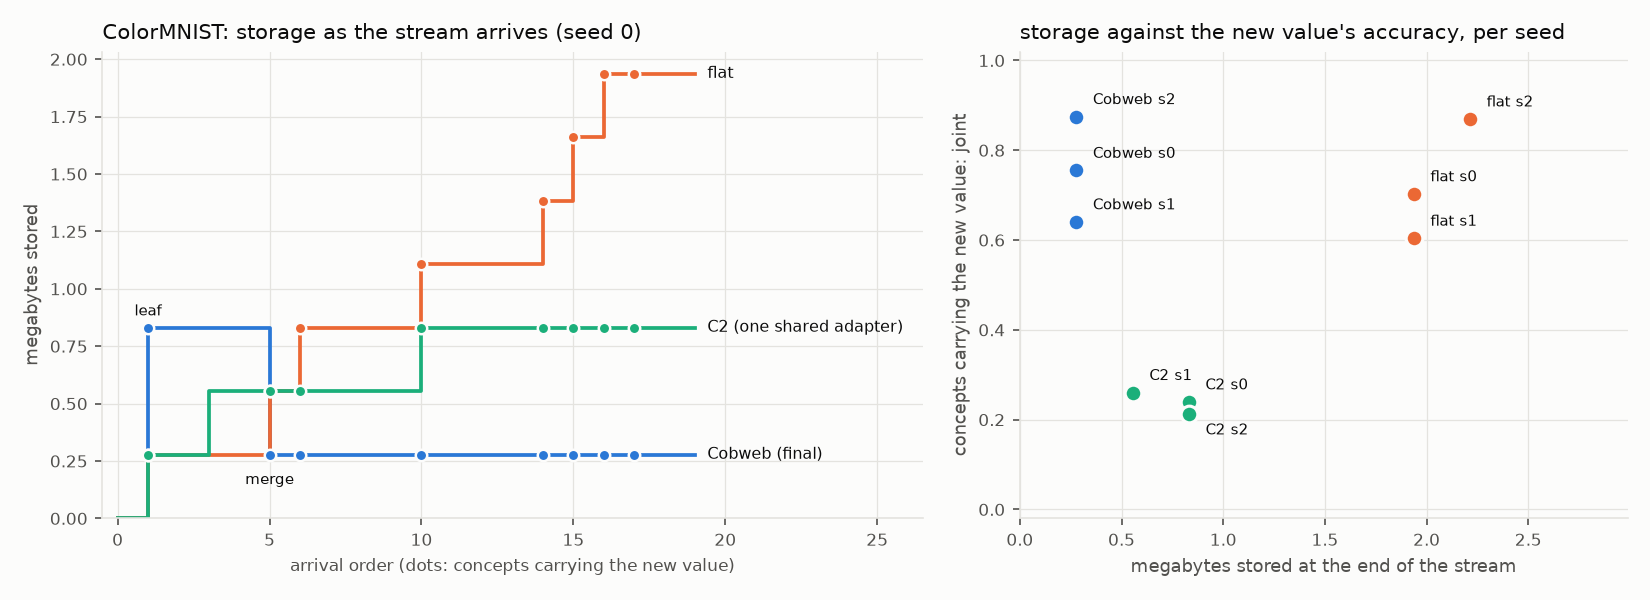
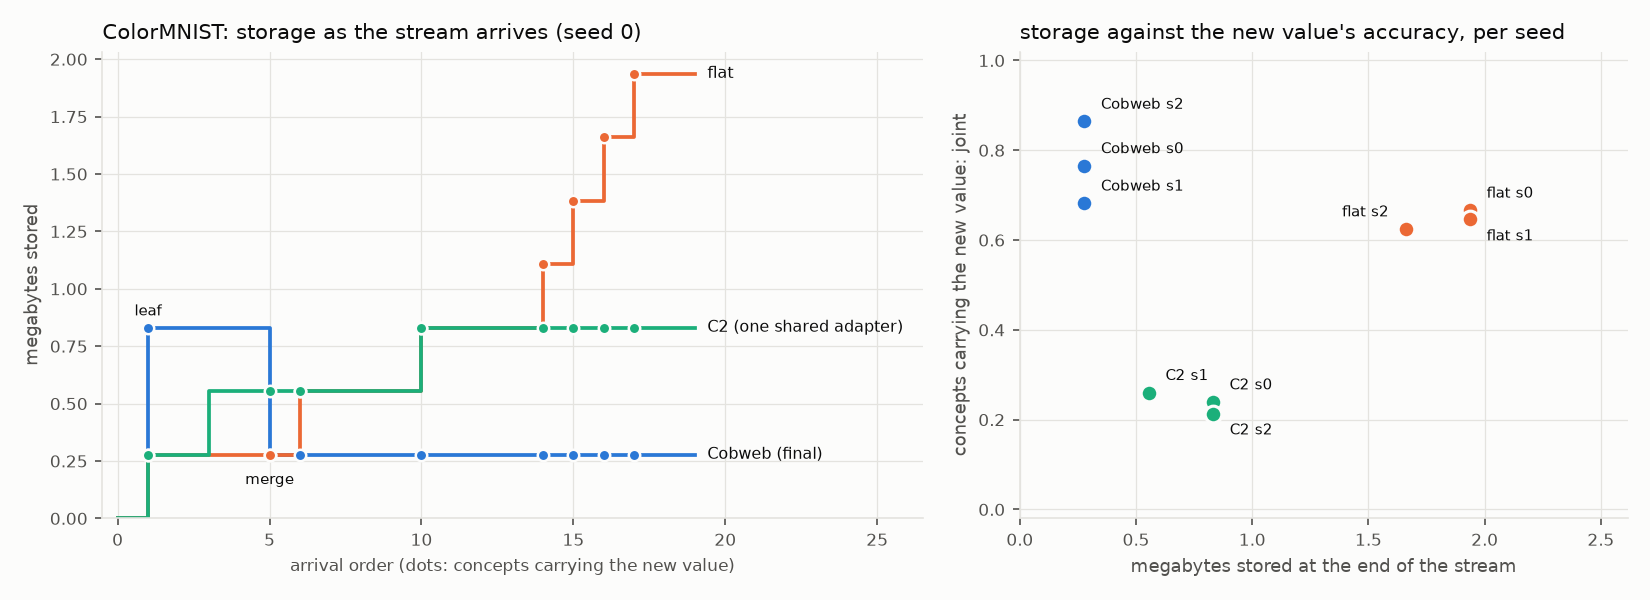
Review: read-band router is final (every new-value concept under its true tuple, never-taught 0.795 vs flat 0.550 at 6.6x less storage)

diff --git a/docs/REVIEW_2026-09.md b/docs/REVIEW_2026-09.md
@@ -265,7 +265,11 @@ same stream and calibration as C2, with these changes:
   per factor, whose other factors are read with that factor left out;
 * a later concept that a hypothesis explains better than any basis composition **MERGES** the leaf
   into a value node on that factor;
-* concepts read through a node are **incorporated**, updating the node at 0 B.
+* concepts read through a node are **incorporated**, updating the node at 0 B;
+* every read is taken in the **read band**: the noise levels where the backbone reads its own
+  trained classes exactly, each level divided by the trained-class level. The band is calibrated
+  label-free, and it came out as u = 0.8–0.95 in every run. See "Where the misreads came from" in
+  Part 4.
 
 **The result on ColorMNIST.** Three seeds per row, joint re-sampled at the end of the stream
 (`experiments/c_report.py c5`):
@@ -276,8 +280,10 @@ same stream and calibration as C2, with these changes:
 | C5: informativeness rule, refine at merge | 0.92 | 0.75 | 0.580 ± 0.055 | 0.50 | – | 1.02 MB | 4 / 5, plus 2 merges of junk leaves |
 | C5: compose-vs-retrieve rule | 0.92 | **1.00** | 0.458 ± 0.057 | 0.46 | – | 0.37 MB | 3 / 3 |
 | C5: compose-vs-retrieve, IN-DIST at the worst trained class | **1.00** | **1.00** | 0.460 ± 0.059 | 0.46 | 0.399 ± 0.065 | **0.278 MB** | 3 / 3 |
-| **C5 final: the above + incorporate** | **1.00** | **1.00** | **0.757 ± 0.068** | 0.63 | **0.611 ± 0.099** | **0.278 MB** | **3 / 3** |
+| C5: the above + incorporate | 1.00 | 1.00 | 0.757 ± 0.068 | 0.63 | 0.611 ± 0.099 | 0.278 MB | 3 / 3 |
 | flat: one adapter per escalated concept, same rules | 1.00 | 1.00 | 0.726 ± 0.078 | 0.17 | 0.483 ± 0.153 | 2.03 MB | – |
+| **C5 final: the above + reads in the read band** | **1.00** | **1.00** | **0.771 ± 0.053** | **1.00** | **0.795 ± 0.059** | **0.278 MB** | **3 / 3** |
+| flat, with the read band | 1.00 | 1.00 | 0.646 ± 0.012 | 0.83 | 0.550 ± 0.052 | 1.84 MB | – |
 
 Old classes are exact in every C5 row (0.834 → 0.834), because a node's adapter is off unless its
 value is in the coordinates.
@@ -286,28 +292,27 @@ value is in the coordinates.
 
 **What this establishes for mechanism B.**
 
-1. **Every tier decision is right, label-free, in 3/3 seeds.**
+1. **Every decision is right, label-free, in 3/3 seeds.**
    * Trained classes store nothing.
    * All 24 new combinations are addressed under their exact tuple.
    * The first new-value concept becomes one leaf, which the next new-value concept merges on the
      right factor.
-   * Every later new-value concept is stored at 72 B.
+   * Every new-value concept, all 24, is stored under its exact true tuple.
 
-   Storage for the eight new-value concepts is one adapter: 277.6 KB, 7.3× less than the flat store.
-2. **The hierarchy beats flat on accuracy, too, once nodes incorporate their members.** New-value
-   concepts reach 0.757 against 0.726. Never-taught combinations of the new value reach 0.611 against
-   0.483, rendered from 72 B of coordinates through the node. C1's per-value adapter, trained with
-   the TRUE labels, reaches 0.715 on never-taught combinations. The label-free loop recovers most of
-   that.
+   Storage for the eight new-value concepts is one adapter: 277.6 KB, 6.6× less than the flat store.
+2. **The hierarchy beats the flat store on accuracy as well as storage.**
+   * New-value concepts reach 0.771 against 0.646.
+   * Never-taught combinations of the new value reach 0.795 against 0.550, rendered from 72 B of
+     coordinates through the node. That is above C1's per-value adapter trained with the TRUE labels
+     (0.715), because the node is incorporated from more concepts.
 3. **Each fix moves exactly the number it targets.**
    * Compose-vs-retrieve removes the over-spend on new combinations: 0.75 → 1.00 addressed, and
      1.02 → 0.37 MB.
    * The worst-class IN-DIST threshold stops trained classes from becoming leaves: 0.92 → 1.00.
    * Incorporate lifts both accuracies: 0.46 → 0.76 on new-value concepts and 0.40 → 0.61 on
-     never-taught ones. It did not pollute the node.
-4. **What remains is reading.** Only 0.63 of new-value concepts are stored under their true tuple.
-   The joint is higher than that because the node learns to render each concept from its (partly
-   misread) coordinates. See Part 4.
+     never-taught ones.
+   * The read band fixes the coordinates: 0.63 → 1.00 stored under the true tuple, and never-taught
+     combinations 0.61 → 0.80.
 
 ### 3d. The Shapes3D flagship, remeasured (C3)
 
@@ -357,8 +362,8 @@ query images, adds a baseline that can win, and draws 3 sampling seeds of 24 sam
 | Compositionality serves lifelong learning: new combinations of known parts need no new parameters | **holds** | ColorMNIST new combinations: 72 B each, routed label-free, all 24 under their exact tuple, joint 0.688 ± 0.018 (trained classes 0.851). Shapes3D: 0.980 from a 1-image read (C3); ADDRESS 1.000 in C2 |
 | A Cobweb-like weight update, with a proof | **holds for the ideal denoiser; the network needs the r ≈ 0 half made explicit** | Propositions 1–6. The network does not inherit locality (C1): interference is largest at low noise. The preserving half is anchoring or gating |
 | Three tiers ADDRESS 72 B / EXTEND 1 KB / BLOCK | **the middle tier changes** | EXTEND alone renders a genuinely new value at 0.000 on both datasets. The working middle tier is a VALUE NODE: the 1 KB direction plus one gated adapter, paid once per value |
-| Hierarchical adapter layout: adapters grow with the number of values, not concepts | **holds** | C5 final: one adapter for all eight new-value concepts (277.6 KB against the flat store's 2.03 MB, 7.3×), and more accurate than flat: 0.757 against 0.726 on the concepts, 0.611 against 0.483 on never-taught combinations. With true labels (C1), never-taught combinations render at 0.72 (ColorMNIST) and 0.94 (Shapes3D) |
-| The router decides from s_novel / s_vocab | **s_novel holds; s_vocab and attribution were rebuilt** | Novelty: AUROC 1.000. Address-vs-node: compose-vs-retrieve, AUROC 1.000 (informativeness fails structurally on values near the basis mean). Attribution: informativeness is at chance (0.42 against 0.33); a second concept is needed (Proposition 7), and C5's leaf/merge chose the right factor in every final run |
+| Hierarchical adapter layout: adapters grow with the number of values, not concepts | **holds (ColorMNIST, label-free)** | C5 final: one adapter for all eight new-value concepts, each stored under its exact tuple (277.6 KB against the flat store's 1.84 MB, 6.6×). It is also more accurate than flat: 0.771 against 0.646 on the concepts, and 0.795 against 0.550 on never-taught combinations. With true labels (C1), never-taught combinations render at 0.72 (ColorMNIST) and 0.98 (Shapes3D) |
+| The router decides from s_novel / s_vocab | **s_novel holds; s_vocab, attribution and the read were rebuilt** | Novelty: AUROC 1.000. Address-vs-node: compose-vs-retrieve, AUROC 1.000 (informativeness fails structurally on values near the basis mean). Attribution: informativeness is at chance (0.42 against 0.33); a second concept is needed (Proposition 7), and C5's leaf/merge chose the right factor in every final run. Reads: taken in the high-noise band, calibrated on trained classes |
 | Sparse updates change remote functionality without touching the hierarchy | **parameter sparsity does not; functional sparsity does** | 1% of weights moves old outputs as much as full fine-tuning unless anchored. A gated node is exact because it is off wherever its value is absent |
 | Recompose the hierarchy back into weights | **open** | Consolidation pays about the drift it saves (ColorMNIST 17% ε-drift; Shapes3D old classes −0.12) |
 
@@ -372,41 +377,38 @@ The thesis lists these, and the c-series does not yet cover them:
 * CelebA;
 * a c-series comparison against Wang et al. (`poe-guided` exists in the earlier n-series).
 
-### The open problem that bounds mechanism B
+### Where the misreads came from, and the fix
 
-The router reads a concept's KNOWN factors from ε-losses. When the concept also carries a new value,
-the new value corrupts those reads. On ColorMNIST the full read gets both known factors right for
-0.15 of new-background concepts. Leaving the background out of the read raises that to 0.55: the
-digit becomes exact, while foreground stays at 0.55, and foreground value 1 is never read. A misread
-concept stored at a node has two possible outcomes:
+The router reads a concept's KNOWN factors from ε-losses. Before the fix, a concept that also carried
+a new value was misread: the full read got both known factors right for 0.15 of new-background
+concepts, and leaving the background out raised that only to 0.55. The final router without the fix
+stored 37% of new-value concepts under wrong coordinates. It recovered their samples only by letting
+each node learn to render its members from those wrong coordinates.
 
-* without incorporate, its samples are wrong;
-* with incorporate, the node learns to render it correctly from the wrong coordinates. On ColorMNIST
-  that did not hurt never-taught combinations (0.40 → 0.61), but the stored coordinates stay wrong,
-  and a node that has learned several misreadings is harder to reuse or to inspect.
-
-The flat store avoids reading, and pays 7.3× the storage to do so. The final router recovers the
-accuracy by incorporating, but it stores 37% of new-value concepts under wrong coordinates.
-
-**Where the misreads come from: the read is decided at low noise** (`tests/diag_read_by_u.py`). The
-same read, scored at one noise level at a time (ColorMNIST, 16 images a concept, 4 noise draws):
+**The cause: the read was decided at low noise** (`tests/diag_read_by_u.py`). Here is the same read
+scored one noise level at a time (ColorMNIST, 16 images a concept, 4 noise draws):
 
 | level u | 0.1 | 0.3 | 0.5 | 0.6 | 0.7 | 0.8 | 0.9 | 0.95 | 0.99 |
 |---|---|---|---|---|---|---|---|---|---|
 | trained classes: digit / foreground | 0.75 / 0.83 | 0.92 / 0.88 | 1.00 / 0.92 | 1.00 / 1.00 | 1.00 / 1.00 | 1.00 / 1.00 | 1.00 / 1.00 | 1.00 / 1.00 | 0.71 / 0.96 |
 | new-value, background left out: digit / foreground | 0.25 / 0.03 | 0.30 / 0.00 | 0.88 / 0.03 | 0.97 / 0.65 | 1.00 / 0.75 | **1.00 / 1.00** | **1.00 / 1.00** | **1.00 / 1.00** | 0.35 / 0.80 |
 
-At u = 0.8–0.95 the known factors of a new-value concept read perfectly, including foreground value
-1, which the pooled read never recovered. At low noise the input still carries the new background's
-pixels, and they swamp the conditioning. Every read so far averaged RAW ε-losses over levels. A trained
-class's loss is about 17 times larger at u = 0.1 than at u = 0.9, so the low levels decided the read.
+* At u = 0.8–0.95 the known factors of a new-value concept read perfectly, including foreground
+  value 1, which the pooled read never recovered.
+* At low noise the input still carries the new background's pixels, and they swamp the conditioning.
+* Every read had averaged RAW ε-losses over levels. A trained class's loss is about 17 times larger
+  at u = 0.1 than at u = 0.9, so the low levels decided the read.
 
-**The label-free fix** reads at the levels where the backbone reads its OWN trained classes exactly
-(here u = 0.6–0.95), each level divided by the trained-class level. That is C5's `--read-band`,
-running now (`_FINAL2`). Two other fixes remain if it falls short:
+**The fix, label-free.** Read at the levels where the backbone reads its OWN trained classes exactly,
+each level divided by the trained-class level (`--read-band`). The calibration uses 40 trained
+classes and picked u = 0.8–0.95 in every run. The effect on the final router:
 
-* a backbone whose conditioning is disentangled per factor (separate tokens, not one additive vector);
-* a discriminative reader for the known factors alongside the density-based novelty test.
+* new-value concepts stored under their true tuple: 0.63 → 1.00;
+* never-taught combinations: 0.61 → 0.80;
+* no other decision changed.
+
+The same principle already set the absorption test. C1 found that only the high-noise levels ask the
+conditioning, not the input, to carry the concept. The read band applies it to reading.
 
 ### Before agent work (for after this review)
 
@@ -416,5 +418,5 @@ policy; ADDRESS is a new task composed from known parts. Three results above set
 
 1. the policy's conditioning must be factored, or attribution is unidentifiable (Proposition 7);
 2. new-value storage should be a gated node, not a sparse weight edit (C1);
-3. reads of known factors must survive a novel one before the hierarchy's storage advantage comes
-   without a fidelity cost.
+3. reads must be taken where the conditioning, not the input, carries the prediction. For a policy,
+   the analogue of the high-noise band has to be found and calibrated on known tasks.
